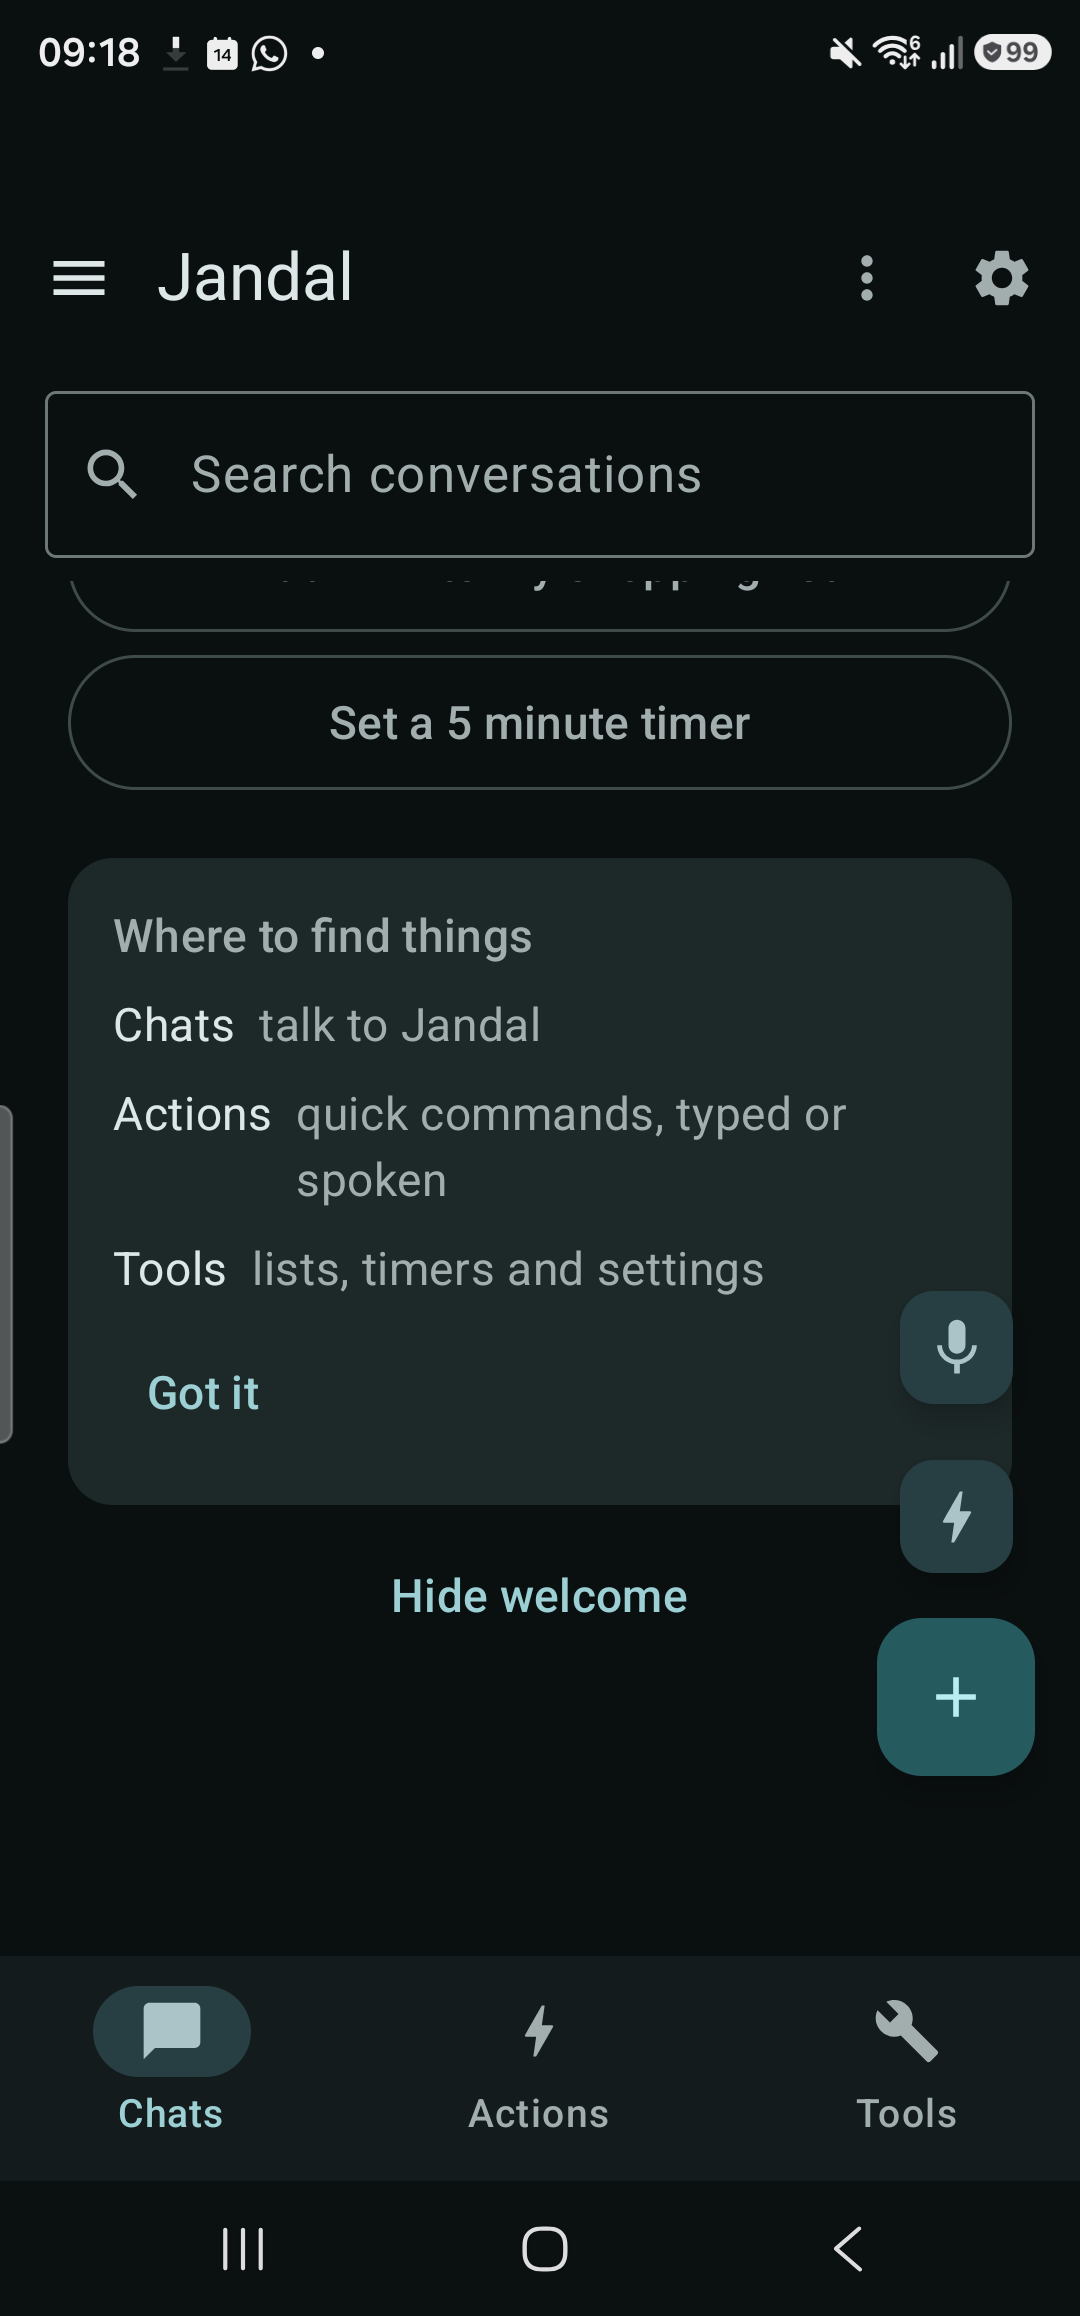
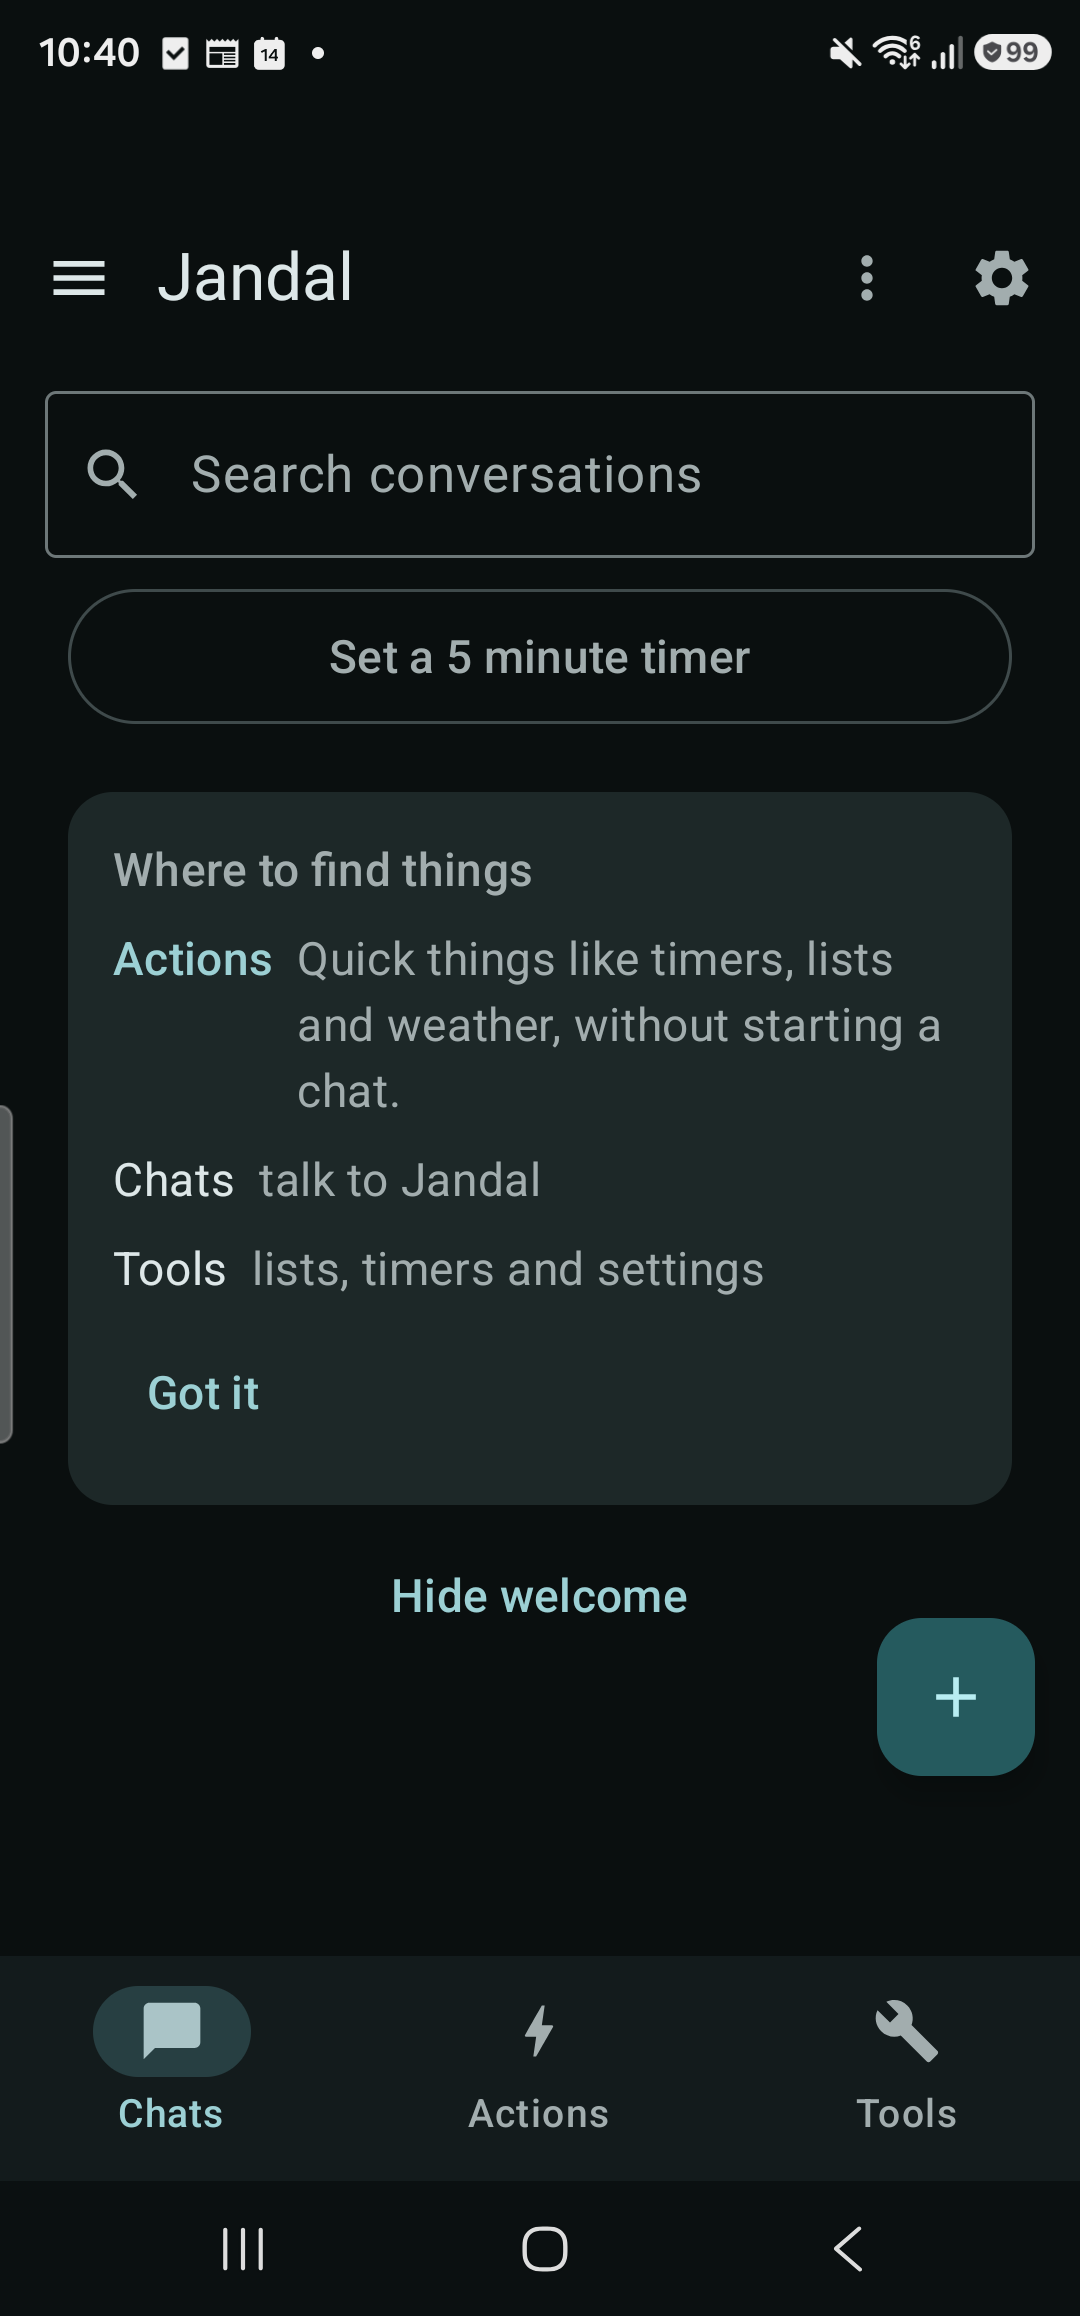
fix(#1849): hide welcome FABs, load-safe welcome state, Actions-first tips, failed-download retry
- Hide mic and quick-action FABs while the welcome shows; keep + clear of content via 88dp spacer.
- Welcome state waits for both the welcome pref and conversation count (archived included); existing users never see a flash.
- Waiting card shows 'Download failed' with 'Try again' when the recommended download errored.
- Plain copy: no model names or 'model' wording in welcome/progress labels; Actions tip leads.
- Refresh S23U evidence (02 tab hints; new 04-06: card clear of FABs, plain state after Hide welcome, example prompt opens Actions).

diff --git a/feature/chat/src/main/java/com/kernel/ai/feature/chat/ChatsWelcome.kt b/feature/chat/src/main/java/com/kernel/ai/feature/chat/ChatsWelcome.kt
@@ -27,6 +27,7 @@ import androidx.compose.ui.semantics.semantics
 import androidx.compose.ui.text.style.TextAlign
 import androidx.compose.ui.unit.dp
 import com.kernel.ai.core.inference.download.KernelModel
+import com.kernel.ai.core.inference.download.DownloadState
 import com.kernel.ai.core.model.availability.ConversationModelReadiness
 
 /** What the Chats empty state shows. [Loading] renders nothing until preferences are known. */
@@ -54,33 +55,45 @@ internal sealed interface WelcomeDownload {
     /** Assistant files are downloading and the assistant cannot chat yet. [progress] is 0.0–1.0, or null when unknown. */
     data class InProgress(val model: KernelModel, val progress: Float?) : WelcomeDownload
 
-    /** Nothing is downloading, and the assistant cannot chat until files arrive. Offers a download action. */
-    data class Waiting(val model: KernelModel) : WelcomeDownload
+    /**
+     * Nothing is downloading, and the assistant cannot chat until files arrive. Offers a download action.
+     * [failed] is true when the last attempt errored, so the card says so and offers a retry.
+     */
+    data class Waiting(val model: KernelModel, val failed: Boolean = false) : WelcomeDownload
 }
 
 /**
  * Chooses the Chats empty state.
  *
- * @param welcomeDismissed null while the preference is loading, otherwise whether the welcome is hidden.
+ * @param welcomeDismissed null while the preference or conversation count is loading; otherwise true when the
+ *   welcome is hidden or any conversation exists.
  * @param readiness Current conversation-model readiness.
+ * @param downloadStates Per-model download states, used to flag a failed recommended-model download.
  */
 internal fun chatsEmptyState(
     welcomeDismissed: Boolean?,
     readiness: ConversationModelReadiness,
+    downloadStates: Map<KernelModel, DownloadState> = emptyMap(),
 ): ChatsEmptyState = when (welcomeDismissed) {
     null -> ChatsEmptyState.Loading
     true -> ChatsEmptyState.Plain
-    false -> ChatsEmptyState.Welcome(welcomeDownloadFor(readiness))
+    false -> ChatsEmptyState.Welcome(welcomeDownloadFor(readiness, downloadStates))
 }
 
-internal fun welcomeDownloadFor(readiness: ConversationModelReadiness): WelcomeDownload = when (readiness) {
+internal fun welcomeDownloadFor(
+    readiness: ConversationModelReadiness,
+    downloadStates: Map<KernelModel, DownloadState> = emptyMap(),
+): WelcomeDownload = when (readiness) {
     is ConversationModelReadiness.Ready,
     is ConversationModelReadiness.FallbackActive -> WelcomeDownload.Ready
     is ConversationModelReadiness.FallbackPreparing ->
         WelcomeDownload.Upgrading(readiness.downloadingModel, readiness.progress)
     is ConversationModelReadiness.Preparing ->
         WelcomeDownload.InProgress(readiness.downloadingModel, readiness.progress)
-    is ConversationModelReadiness.ActionRequired -> WelcomeDownload.Waiting(readiness.recommendedModel)
+    is ConversationModelReadiness.ActionRequired -> WelcomeDownload.Waiting(
+        model = readiness.recommendedModel,
+        failed = downloadStates[readiness.recommendedModel] is DownloadState.Error,
+    )
 }
 
 /** A tappable prompt on the welcome. [needsAssistantFiles] is false when the quick-intent router handles it. */
@@ -148,8 +161,8 @@ internal fun ChatsWelcome(
         when (download) {
             WelcomeDownload.Ready -> Unit
             is WelcomeDownload.Upgrading -> DownloadCard(
-                title = "Getting a better model",
-                body = "Jandal can chat now. A larger model, about ${formatBytesShort(download.model.approxSizeBytes)}, " +
+                title = "Getting a better Jandal",
+                body = "Jandal can chat now. A bigger upgrade, about ${formatBytesShort(download.model.approxSizeBytes)}, " +
                     "is downloading to replace it. Keep Wi-Fi on until it finishes.",
                 progress = download.progress,
             )
@@ -160,11 +173,16 @@ internal fun ChatsWelcome(
                 progress = download.progress,
             )
             is WelcomeDownload.Waiting -> DownloadCard(
-                title = "Getting Jandal ready",
-                body = "Jandal needs to download about ${formatBytesShort(download.model.approxSizeBytes)} " +
-                    "before it can chat. Keep Wi-Fi on. Timers, weather and shopping lists already work.",
+                title = if (download.failed) "Download failed" else "Getting Jandal ready",
+                body = if (download.failed) {
+                    "Jandal couldn't finish downloading about ${formatBytesShort(download.model.approxSizeBytes)}. " +
+                        "Check your connection, then try again. Timers, weather and shopping lists already work."
+                } else {
+                    "Jandal needs to download about ${formatBytesShort(download.model.approxSizeBytes)} " +
+                        "before it can chat. Keep Wi-Fi on. Timers, weather and shopping lists already work."
+                },
                 progress = null,
-                actionLabel = "Download ${download.model.displayName}",
+                actionLabel = if (download.failed) "Try again" else "Download now",
                 onAction = { onDownloadModel(download.model) },
             )
         }
@@ -204,8 +222,12 @@ internal fun ChatsWelcome(
                         style = MaterialTheme.typography.titleSmall,
                         modifier = Modifier.semantics { heading() },
                     )
+                    TabHintRow(
+                        label = "Actions",
+                        hint = "Quick things like timers, lists and weather, without starting a chat.",
+                        prominent = true,
+                    )
                     TabHintRow(label = "Chats", hint = "talk to Jandal")
-                    TabHintRow(label = "Actions", hint = "quick commands, typed or spoken")
                     TabHintRow(label = "Tools", hint = "lists, timers and settings")
                     TextButton(
                         onClick = onDismissTabHints,
@@ -278,7 +300,7 @@ private fun DownloadCard(
 }
 
 @Composable
-private fun TabHintRow(label: String, hint: String) {
+private fun TabHintRow(label: String, hint: String, prominent: Boolean = false) {
     Row(
         modifier = Modifier
             .fillMaxWidth()
@@ -286,7 +308,11 @@ private fun TabHintRow(label: String, hint: String) {
             .semantics(mergeDescendants = true) {},
         horizontalArrangement = Arrangement.spacedBy(8.dp),
     ) {
-        Text(label, style = MaterialTheme.typography.bodyMedium, color = MaterialTheme.colorScheme.onSurface)
+        Text(
+            label,
+            style = if (prominent) MaterialTheme.typography.titleSmall else MaterialTheme.typography.bodyMedium,
+            color = if (prominent) MaterialTheme.colorScheme.primary else MaterialTheme.colorScheme.onSurface,
+        )
         Text(hint, style = MaterialTheme.typography.bodyMedium, color = MaterialTheme.colorScheme.onSurfaceVariant)
     }
 }

diff --git a/feature/chat/src/test/java/com/kernel/ai/feature/chat/ConversationListViewModelTest.kt b/feature/chat/src/test/java/com/kernel/ai/feature/chat/ConversationListViewModelTest.kt
@@ -10,13 +10,19 @@ import io.mockk.coVerify
 import io.mockk.every
 import io.mockk.mockk
 import io.mockk.verify
+import kotlinx.coroutines.CoroutineScope
 import kotlinx.coroutines.Dispatchers
+import kotlinx.coroutines.cancel
+import kotlinx.coroutines.flow.MutableSharedFlow
 import kotlinx.coroutines.flow.MutableStateFlow
 import kotlinx.coroutines.flow.flowOf
+import kotlinx.coroutines.launch
 import kotlinx.coroutines.test.StandardTestDispatcher
 import kotlinx.coroutines.test.advanceUntilIdle
 import kotlinx.coroutines.test.resetMain
 import kotlinx.coroutines.test.setMain
+import org.junit.jupiter.api.Assertions.assertEquals
+import org.junit.jupiter.api.Assertions.assertNull
 import org.junit.jupiter.api.AfterEach
 import org.junit.jupiter.api.BeforeEach
 import org.junit.jupiter.api.Test
@@ -91,5 +97,46 @@ class ConversationListViewModelTest {
         val viewModel = ConversationListViewModel(repository, chatPreferences, downloadManager)
         viewModel.downloadAssistantModel(KernelModel.GEMMA_4_E4B)
         verify(exactly = 1) { downloadManager.startDownload(KernelModel.GEMMA_4_E4B, false, any()) }
+    }
+
+    @Test
+    fun `welcome state is unknown until the conversation count has loaded`() {
+        every { repository.observeConversationCount() } returns MutableSharedFlow()
+        val viewModel = ConversationListViewModel(repository, chatPreferences, downloadManager)
+        val collector = CoroutineScope(dispatcher).launch { viewModel.chatsWelcomeDismissed.collect {} }
+        dispatcher.scheduler.advanceUntilIdle()
+        assertNull(viewModel.chatsWelcomeDismissed.value)
+        collector.cancel()
+    }
+
+    @Test
+    fun `returning user with conversations never sees the welcome, even before the preference is written`() {
+        every { chatPreferences.chatsWelcomeDismissed } returns flowOf(false)
+        conversationCount.value = 2
+        val viewModel = ConversationListViewModel(repository, chatPreferences, downloadManager)
+        val collector = CoroutineScope(dispatcher).launch { viewModel.chatsWelcomeDismissed.collect {} }
+        dispatcher.scheduler.advanceUntilIdle()
+        assertEquals(true, viewModel.chatsWelcomeDismissed.value)
+        collector.cancel()
+    }
+
+    @Test
+    fun `first run with no conversations shows the welcome once both values have loaded`() {
+        every { chatPreferences.chatsWelcomeDismissed } returns flowOf(false)
+        val viewModel = ConversationListViewModel(repository, chatPreferences, downloadManager)
+        val collector = CoroutineScope(dispatcher).launch { viewModel.chatsWelcomeDismissed.collect {} }
+        dispatcher.scheduler.advanceUntilIdle()
+        assertEquals(false, viewModel.chatsWelcomeDismissed.value)
+        collector.cancel()
+    }
+
+    @Test
+    fun `hidden welcome stays hidden when there are no conversations`() {
+        every { chatPreferences.chatsWelcomeDismissed } returns flowOf(true)
+        val viewModel = ConversationListViewModel(repository, chatPreferences, downloadManager)
+        val collector = CoroutineScope(dispatcher).launch { viewModel.chatsWelcomeDismissed.collect {} }
+        dispatcher.scheduler.advanceUntilIdle()
+        assertEquals(true, viewModel.chatsWelcomeDismissed.value)
+        collector.cancel()
     }
 }

diff --git a/feature/chat/src/main/java/com/kernel/ai/feature/chat/ConversationListScreen.kt b/feature/chat/src/main/java/com/kernel/ai/feature/chat/ConversationListScreen.kt
@@ -104,7 +104,8 @@ fun ConversationListScreen(
     val chatsWelcomeDismissed by viewModel.chatsWelcomeDismissed.collectAsStateWithLifecycle()
     val tabHintsDismissed by viewModel.tabHintsDismissed.collectAsStateWithLifecycle()
     val assistantReadiness by viewModel.assistantReadiness.collectAsStateWithLifecycle()
-    val welcomeState = chatsEmptyState(chatsWelcomeDismissed, assistantReadiness)
+    val downloadStates by viewModel.downloadStates.collectAsStateWithLifecycle()
+    val welcomeState = chatsEmptyState(chatsWelcomeDismissed, assistantReadiness, downloadStates)
 
     var pendingDelete by remember { mutableStateOf<ConversationEntity?>(null) }
     var pendingArchive by remember { mutableStateOf<ConversationEntity?>(null) }
@@ -229,19 +230,21 @@ fun ConversationListScreen(
                     verticalArrangement = Arrangement.spacedBy(12.dp),
                     horizontalAlignment = Alignment.CenterHorizontally,
                 ) {
-                    SmallFloatingActionButton(
-                        onClick = onNavigateToVoiceActions,
-                        containerColor = MaterialTheme.colorScheme.secondaryContainer,
-                        contentColor = MaterialTheme.colorScheme.onSecondaryContainer,
-                    ) {
-                        Icon(Icons.Default.Mic, contentDescription = "Voice action")
-                    }
-                    SmallFloatingActionButton(
-                        onClick = onNavigateToActions,
-                        containerColor = MaterialTheme.colorScheme.secondaryContainer,
-                        contentColor = MaterialTheme.colorScheme.onSecondaryContainer,
-                    ) {
-                        Icon(Icons.Default.Bolt, contentDescription = "Quick action")
+                    if (welcomeState !is ChatsEmptyState.Welcome) {
+                        SmallFloatingActionButton(
+                            onClick = onNavigateToVoiceActions,
+                            containerColor = MaterialTheme.colorScheme.secondaryContainer,
+                            contentColor = MaterialTheme.colorScheme.onSecondaryContainer,
+                        ) {
+                            Icon(Icons.Default.Mic, contentDescription = "Voice action")
+                        }
+                        SmallFloatingActionButton(
+                            onClick = onNavigateToActions,
+                            containerColor = MaterialTheme.colorScheme.secondaryContainer,
+                            contentColor = MaterialTheme.colorScheme.onSecondaryContainer,
+                        ) {
+                            Icon(Icons.Default.Bolt, contentDescription = "Quick action")
+                        }
                     }
                     FloatingActionButton(
                         onClick = onNewConversation,

diff --git a/feature/chat/src/main/java/com/kernel/ai/feature/chat/ConversationListViewModel.kt b/feature/chat/src/main/java/com/kernel/ai/feature/chat/ConversationListViewModel.kt
@@ -29,9 +29,17 @@ class ConversationListViewModel @Inject constructor(
     private val downloadManager: ModelDownloadManager,
 ) : ViewModel() {
 
-    /** Null until preferences load, so a returning user never sees the welcome flash. */
-    val chatsWelcomeDismissed: StateFlow<Boolean?> = chatPreferences.chatsWelcomeDismissed
-        .stateIn(viewModelScope, SharingStarted.WhileSubscribed(5_000), null)
+    /**
+     * Null until both the welcome preference and the total conversation count (archived included) have loaded.
+     * True when the welcome is hidden or any conversation exists, so a returning user never sees the welcome flash.
+     */
+    val chatsWelcomeDismissed: StateFlow<Boolean?> = combine(
+        chatPreferences.chatsWelcomeDismissed,
+        repository.observeConversationCount(),
+    ) { dismissed, count -> dismissed || count > 0 }
+        .stateIn<Boolean?>(viewModelScope, SharingStarted.WhileSubscribed(5_000), null)
+
+    val downloadStates = downloadManager.downloadStates
 
     val tabHintsDismissed: StateFlow<Boolean?> = chatPreferences.tabHintsDismissed
         .stateIn(viewModelScope, SharingStarted.WhileSubscribed(5_000), null)

diff --git a/feature/chat/src/test/java/com/kernel/ai/feature/chat/ChatsWelcomeTest.kt b/feature/chat/src/test/java/com/kernel/ai/feature/chat/ChatsWelcomeTest.kt
@@ -1,5 +1,6 @@
 package com.kernel.ai.feature.chat
 
+import com.kernel.ai.core.inference.download.DownloadState
 import com.kernel.ai.core.inference.download.KernelModel
 import com.kernel.ai.core.model.availability.ConversationModelReadiness
 import com.kernel.ai.core.skills.QuickIntentRouter
@@ -41,6 +42,18 @@ class ChatsWelcomeTest {
         assertEquals(
             ChatsEmptyState.Welcome(WelcomeDownload.Waiting(KernelModel.GEMMA_4_E4B)),
             chatsEmptyState(welcomeDismissed = false, readiness = notStarted),
+        )
+    }
+
+    @Test
+    fun `waiting card reports a failed recommended-model download so it can offer a retry`() {
+        assertEquals(
+            ChatsEmptyState.Welcome(WelcomeDownload.Waiting(KernelModel.GEMMA_4_E4B, failed = true)),
+            chatsEmptyState(
+                welcomeDismissed = false,
+                readiness = notStarted,
+                downloadStates = mapOf(KernelModel.GEMMA_4_E4B to DownloadState.Error("network")),
+            ),
         )
     }
 

diff --git a/feature/chat/src/main/java/com/kernel/ai/feature/chat/ChatScreen.kt b/feature/chat/src/main/java/com/kernel/ai/feature/chat/ChatScreen.kt
@@ -2419,7 +2419,7 @@ internal fun ConversationDownloadProgress(
     val progressModifier = Modifier
         .fillMaxWidth()
         .semantics {
-            contentDescription = "Model download progress"
+            contentDescription = "Download progress"
             if (percent != null) stateDescription = "$percent percent"
         }
     if (progress != null && progress > 0f) {
